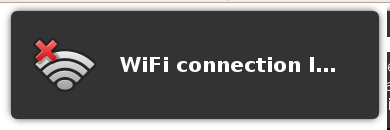
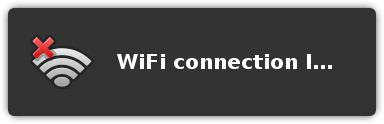
Manually clip screenshots byy 3 pixels on each border

Changed region(s): [[0.0, 0.0, 1.0, 1.0], [0.2812, 0.4355, 0.875, 0.5565], [0.0625, 0.2903, 0.25, 0.7016]]

diff --git a/desktoptesting/deskex.py b/desktoptesting/deskex.py
@@ -33,11 +33,10 @@ class NotifyOSD(Application):
         ldtp.waittillguiexist(summary)
         start_time = time()
         x, y, w, h = ldtp.getwindowsize(summary)
-        print x, y, w, h
         screenshot = \
-            ldtputils.imagecapture(x=x, y=y, resolution1=w, resolution2=h)
-        print 'Quick! Do something!'
-        print ldtp.appundertest('notify-osd')
+            ldtputils.imagecapture(x=x+3, y=y+3, 
+                                   resolution1=w-3, 
+                                   resolution2=h-3)
         ldtp.waittillguinotexist(summary)
         end_time = time() - start_time
         return (end_time, screenshot)
